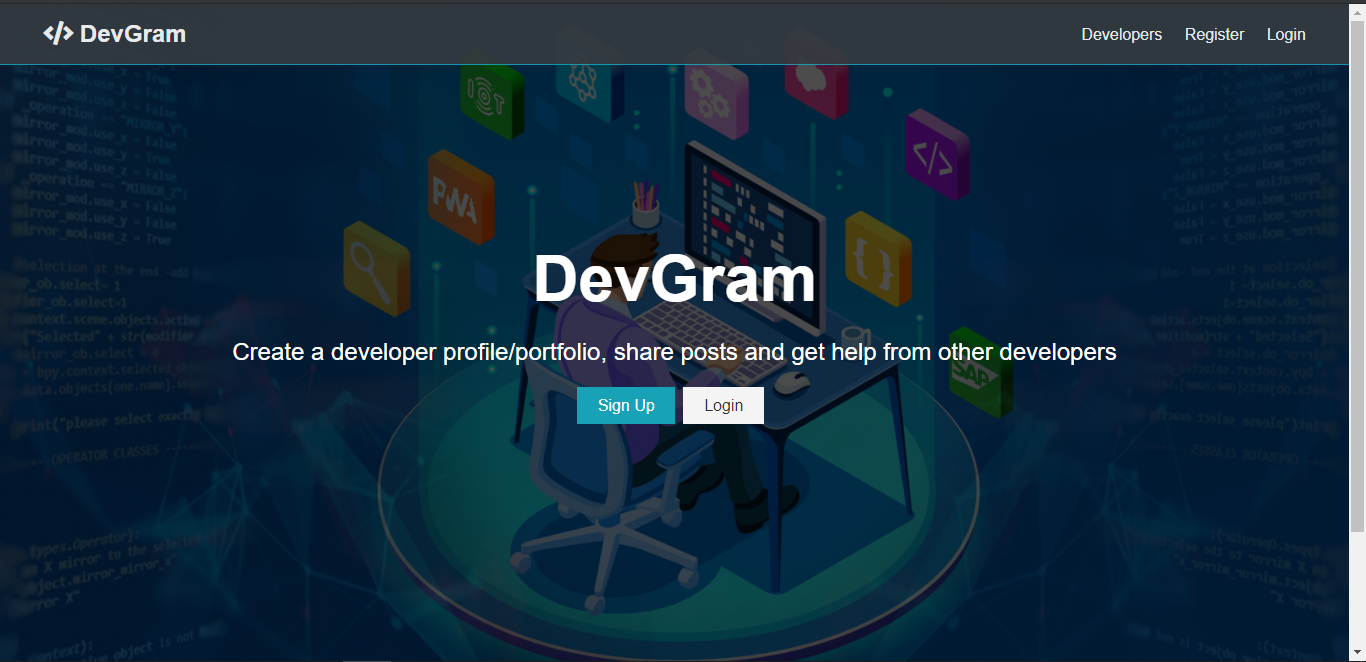
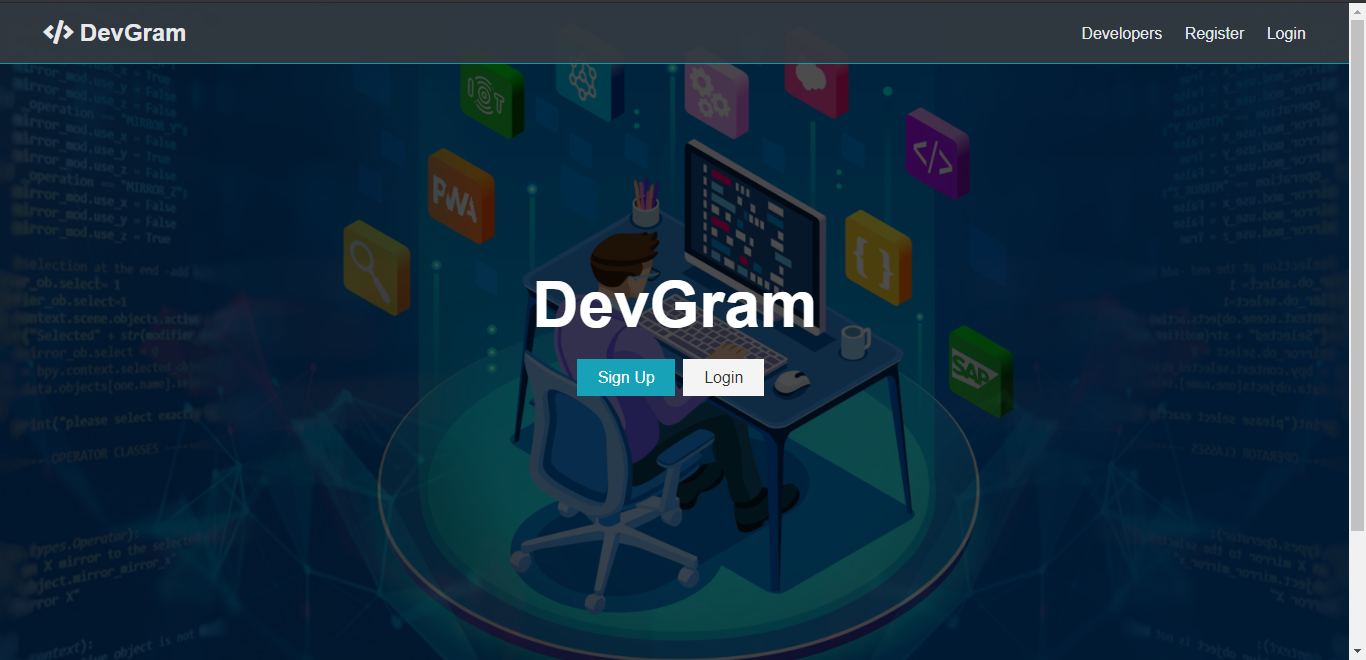
Screenshots added

diff --git a/client/src/components/layout/Landing.js b/client/src/components/layout/Landing.js
@@ -6,10 +6,6 @@ const Landing = () => {
             <div className="dark-overlay">
                 <div className="landing-inner">
                     <h1 className="x-large">DevGram</h1>
-                    <p className="lead">
-                        Create a developer profile/portfolio, share posts and get help from
-                        other developers
-                    </p>
                     <div className="buttons">
                         <Link to="/register" className="btn btn-primary">Sign Up</Link>
                         <Link to="/login" className="btn btn-light">Login</Link>
